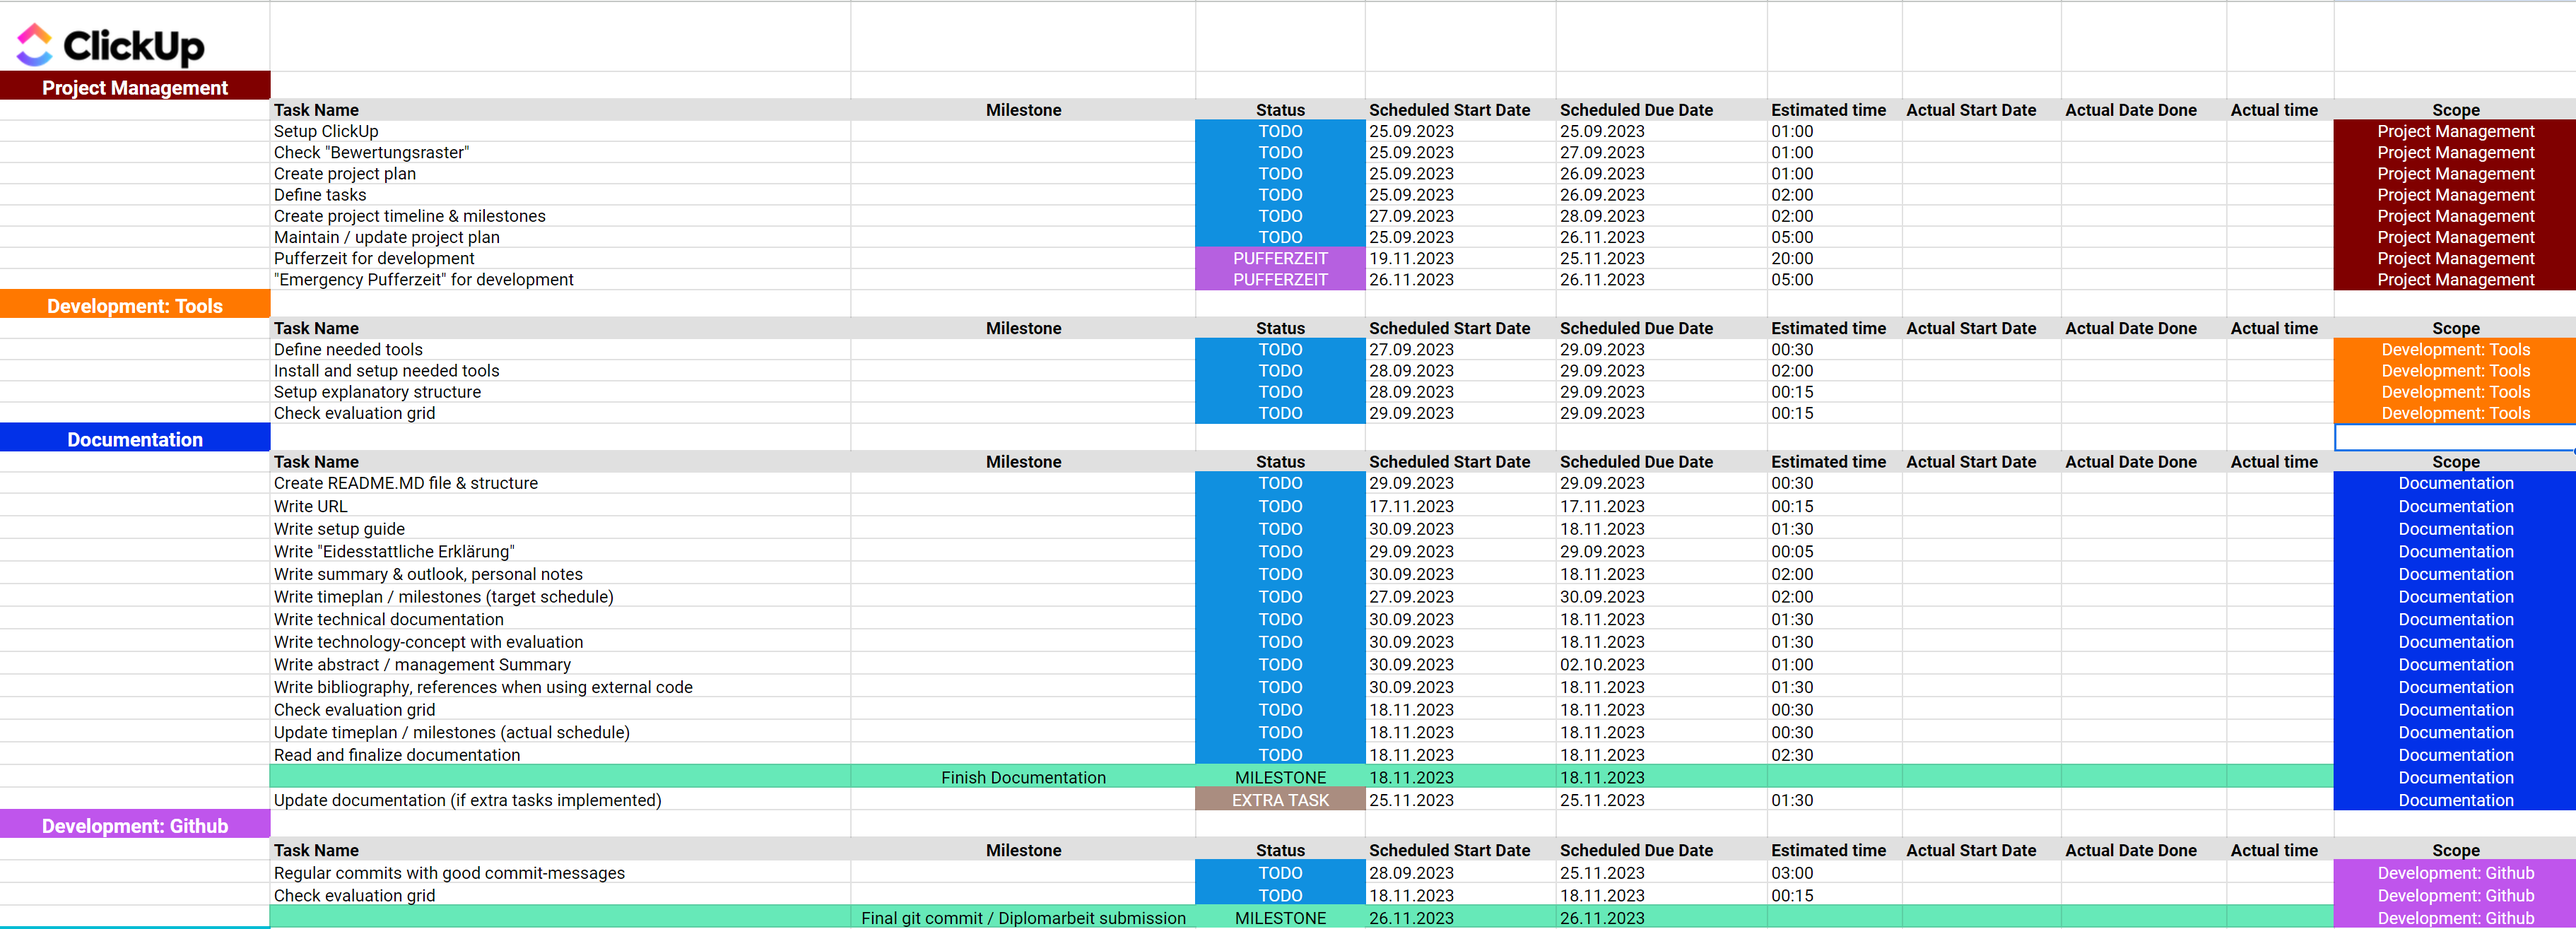
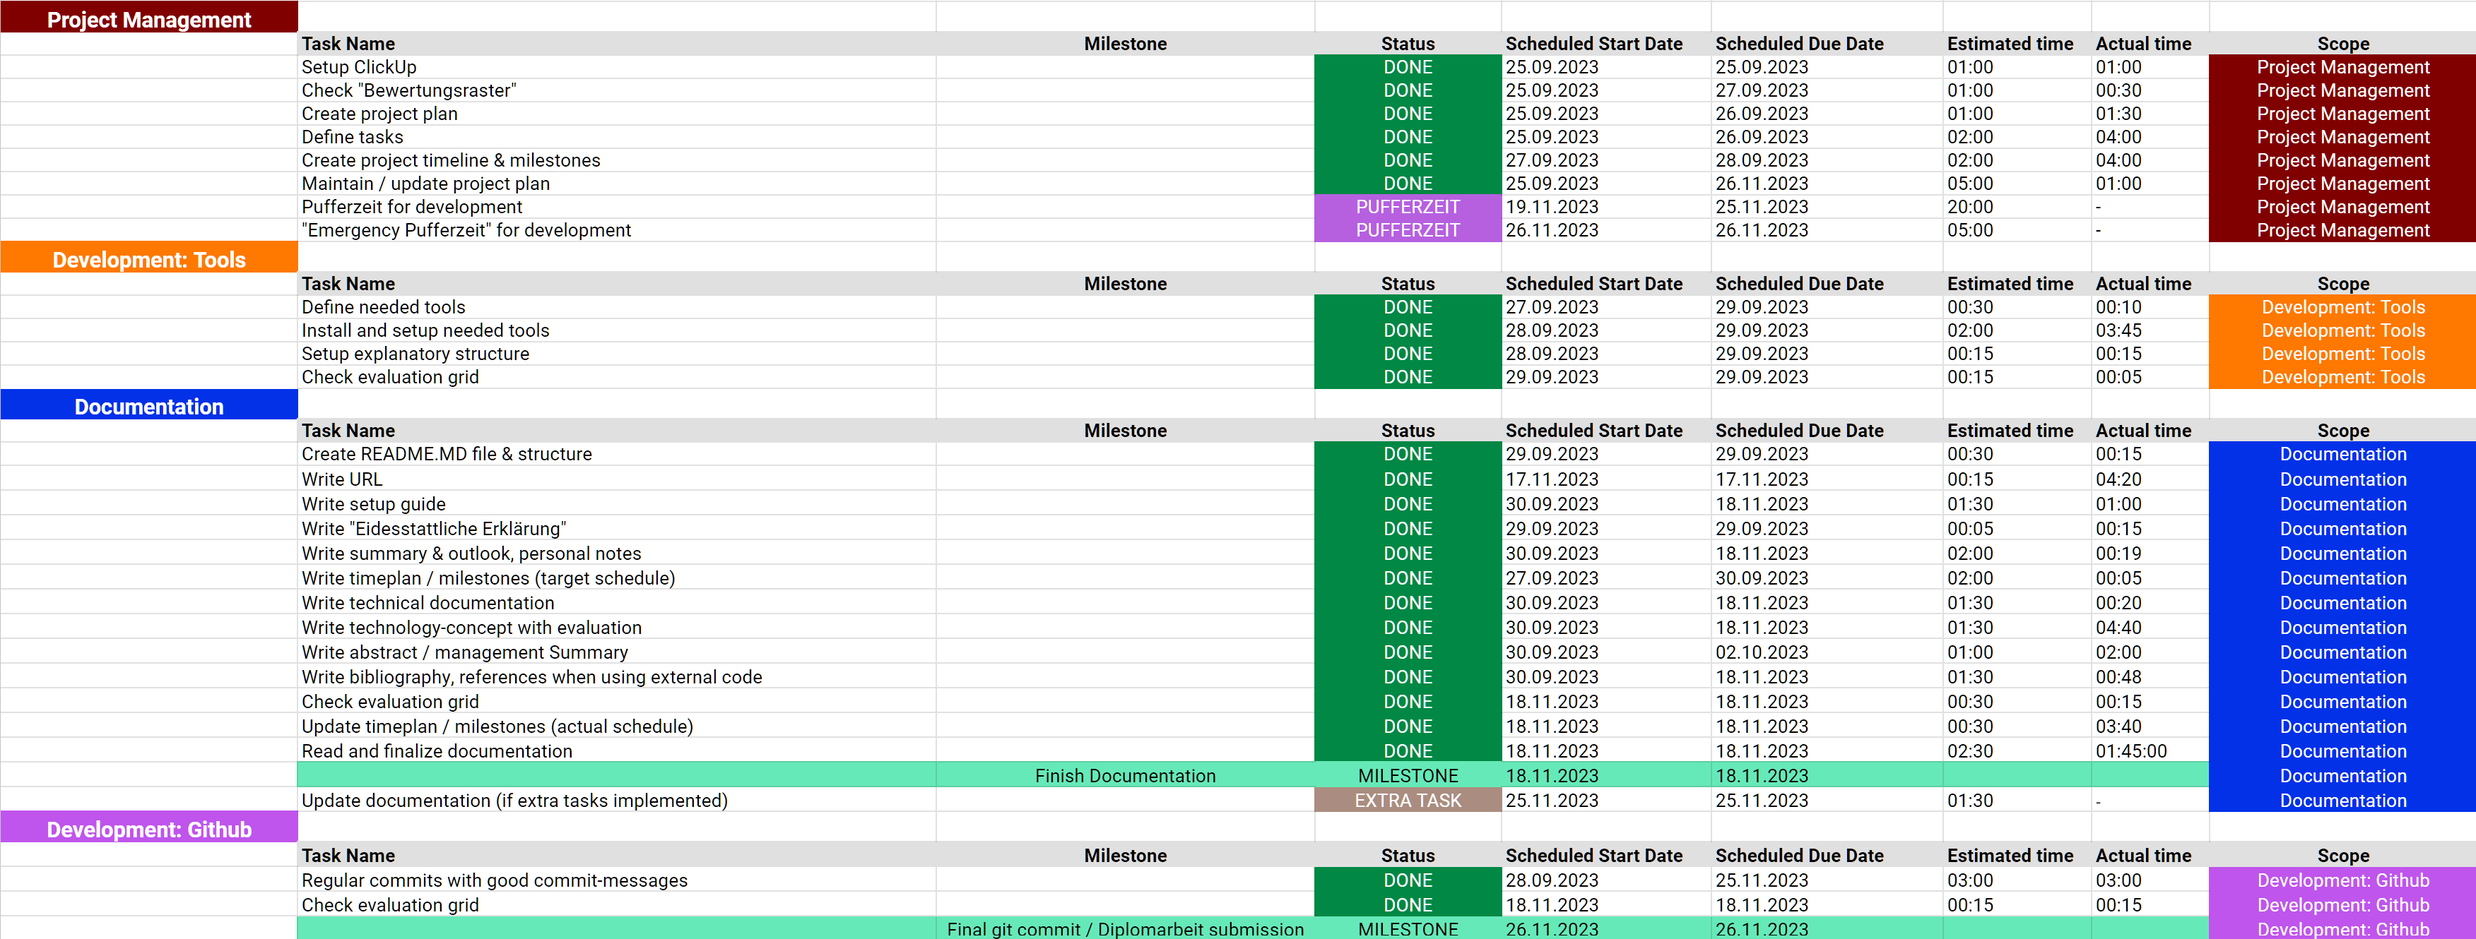
updated documentation

diff --git a/README.md b/README.md
@@ -106,17 +106,11 @@ Ich habe versucht, die Planung möglichst detailliert, aber dennoch mit Bedenken
 
 ### Projekt-/Zeitplan
 
-Folgend ist der Projekt-/Zeitplan im Soll-Zustand:
-
 ![Zeitplan-1](src/assets/images//documentation/timetable-1.png)
 
 ![Zeitplan-2](src/assets/images//documentation/timetable-2.png)
 
 ![Zeitplan-2](src/assets/images//documentation/timetable-3.png)
-
-Folgend ist der Projekt-/Zeitplan im Ist-Zustand:
-
-**UPDATE FOLGT**
 
 #### Zusammenfassung
 
@@ -365,17 +359,6 @@ Auf Desktop soll gemäss Figma die aktuelle Seite in der Navigation gekennzeichn
 
 ![Alle Objekte anzeigen](src/assets/images/documentation/navigation-mobile-implemented.png)
 
-### Hosting
-
-Für das Hosting habe ich mir die folgenden Anbieter angeschaut:
-
-- [Netlify](https://www.netlify.com/)
-- [Vercel](https://vercel.com/)
-- [Heroku](https://www.heroku.com/)
-- [Docker](https://www.docker.com/)
-
-Schlussendlich habe ich mich dann für die Umsetzung mit Heroku entschieden. Dies aus dem Grund, da ich dann noch die Möglichkeit hätte, ein Backend einzubauen und ich Heroku auch einfach einmal ausprobieren wollte. Die Umsetzung hat gut funktioniert, aber ich musste noch zusätzliche [Vorkehrungen](#technische-dokumentation-bei-eigenleistungen) treffen, da ich kein eigenes Backend habe.
-
 ### Umsetzung Detailseiten
 
 Bei der Umsetzung der Detailseiten habe ich mit einer "Template HTML-Datei" gearbeitet (`objekt.html`). Sobald auf ein Immobilienobjekt geklickt wird, wird die zugehörige ID als Parameter der URL übergeben. Dadurch gibt es für jedes Immobilienobjekt eine separate URL mit folgendem Schema:
@@ -387,13 +370,24 @@ Ich habe mich dafür entschieden, den grössten Teil des HTMLs aus dem Template 
 
 Dies hatte ich zuerst auch bei den Bildern so gelöst. Sprich ich hatte 4 Bildelemente in meiner `objekt.html` Datei, die ich dann mit JavaScript befüllt habe. Sofern es weniger als 4 Bilder in der Datenbank hatte, wurden die leeren Bildelemente aus dem HTML entfernt. Dies bedeutete aber, dass die Anpassungsfähigkeit nicht gewährleistet war, wenn es irgendwann mehr als 4 Bilder pro Immobilienobjekt in der Datenbank gibt. Deshalb habe ich es umstrukturiert und in JavaScript einen Loop für die Bildelemente eingebaut. Sofern ein Bildelement in der Datenbank vorhanden ist, wird das HTML-Element mithilfe von JavaScript erstellt. Input in Bezug auf die Implementierung der Bilder habe ich von meinem Dozenten Pascal Helfenstein erhalten.
 
-### Prettier - Code Formatter
+### Hosting
 
-Ich habe bei der Entwicklung des Codes zum ersten Mal mit dem [Prettier Code Formatter](https://marketplace.visualstudio.com/items?itemName=esbenp.prettier-vscode) gearbeitet. Damit wollte ich sicherstellen, dass mein Code einheitlich formatiert ist. Das Einzige, was mich daran gestört hat, waren die automatischen Zeilenumbrüche, da diese im HTML ein paar Mal zu Fehlern geführt haben, sowie der Code in JavaScript teilweise etwas unschön aussieht. Ich habe die erlaubten Zeichen pro Zeile einige Male angepasst, um es etwas zu optimieren.
+Für das Hosting habe ich mir die folgenden Anbieter angeschaut:
+
+- [Netlify](https://www.netlify.com/)
+- [Vercel](https://vercel.com/)
+- [Heroku](https://www.heroku.com/)
+- [Docker](https://www.docker.com/)
+
+Schlussendlich habe ich mich dann für die Umsetzung mit Heroku entschieden. Dies aus dem Grund, da ich dann noch die Möglichkeit hätte, ein Backend einzubauen und ich Heroku auch einfach einmal ausprobieren wollte. Die Umsetzung hat gut funktioniert, aber ich musste noch zusätzliche [Vorkehrungen](#technische-dokumentation-bei-eigenleistungen) treffen, da ich kein eigenes Backend habe.
 
 ### Github
 
 Da ich auch während der Unterrichtszeit mit GitHub gearbeitet habe, hatte ich die grundlegenden Git-Befehle bereits im Kopf. Ich war mir anfangs eher etwas unsicher bezüglich der Git Commits beziehungsweise der Commit-Messages. Ich habe versucht regelmässig und bei für mich sinnvollen Aufgaben Fortschritten zu commiten. Nach den ersten paar vermutlich leicht zu langen Messages, habe ich versucht mich kürzer zu halten und in diesem Sinne auch weniger Fortschritte in einem einzelnen Commit zusammenzufassen.
+
+### Prettier - Code Formatter
+
+Ich habe bei der Entwicklung des Codes zum ersten Mal mit dem [Prettier Code Formatter](https://marketplace.visualstudio.com/items?itemName=esbenp.prettier-vscode) gearbeitet. Damit wollte ich sicherstellen, dass mein Code einheitlich formatiert ist. Das Einzige, was mich daran gestört hat, waren die automatischen Zeilenumbrüche, da diese im HTML ein paar Mal zu Fehlern geführt haben, sowie der Code in JavaScript teilweise etwas unschön aussieht. Ich habe die erlaubten Zeichen pro Zeile einige Male angepasst, um es etwas zu optimieren.
 
 ## Technische Dokumentation bei Eigenleistungen
 
